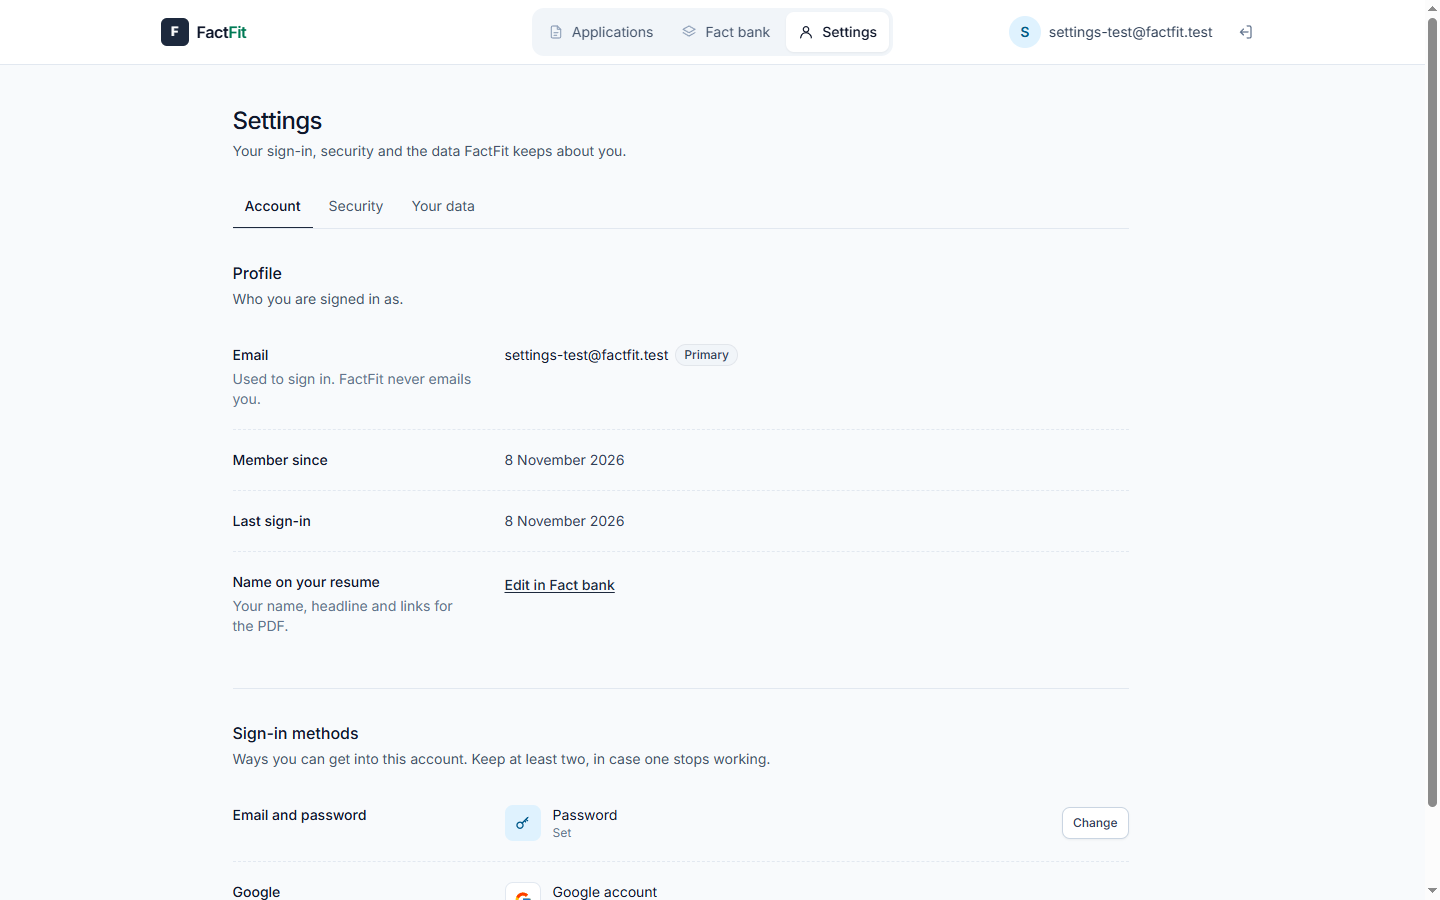
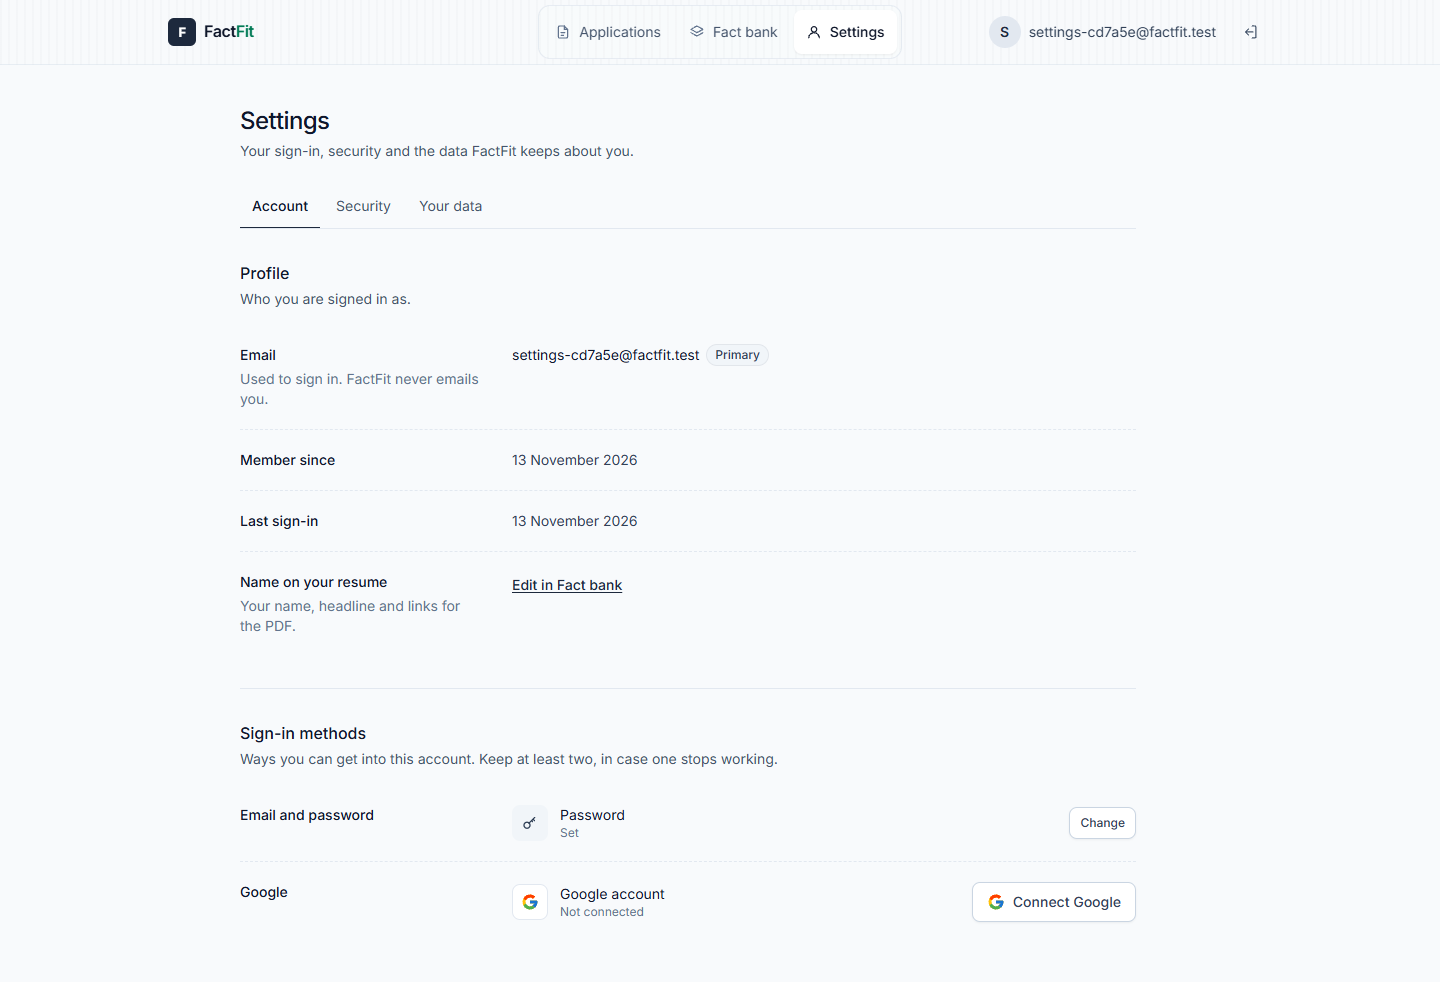
Add usage screenshots and bring the handoff up to date
- README: new guard-sandbox and pipeline shots showing the guard in use; settings
  shots retaken on the current UI from a throwaway local account.
- screenshots.mjs captures the sandbox and pipeline too.
- HANDOFF.md and the CLAUDE.md status line describe the 2026-11-13 polish and deploy.

diff --git a/HANDOFF.md b/HANDOFF.md
@@ -1,93 +1,102 @@
-# FactFit handoff (session 2026-11-07 → 2026-11-09)
+# FactFit handoff (updated 2026-11-13)
 
-Read this first, then `CLAUDE.md` (status line + rules) and `README.md`. Answer the user in **Thai**.
+Read this first, then `CLAUDE.md` (status line + rules) and `README.md`. Answer the user in **Thai**; keep code,
+commits and UI copy in English.
 
-## How to work in the new session
+## How to work in a new session
 
-- **Token budget:** turn on `caveman` (short replies) and `ponytail` (smallest complete change) at the start.
-  If a skill isn't listed, skip it. Keep chat short; put detail in files.
-- **Design skills:** run `ls ~/.claude/skills`, then use the design skills that fit the task. Includes the elaya
-  ai-design-skills set and the other design skills installed on 2026-11-09. Ones used or useful here:
-  `no-ai-design-slop` / `audit-ai-design-slop` (before), `better-interface` (after; it routes to `better-accessibility`,
-  `better-layout`, `better-writing`, `better-typography`, `better-colors`, `better-ui`), `break-ui` (worst-case data),
-  `animate` (motion), `form-design`, `landing-page-design`, `tastemaker`.
-  To save tokens, run a heavy review skill in a subagent and take back only the ranked findings.
+- **Token budget:** turn on `ponytail` (smallest complete change); `caveman` if the user wants short replies.
+  Keep chat short; put detail in files.
+- **Design work:** `CLAUDE_DESIGN_GUIDE.md` is the spec. Its honesty rules at the top win over everything else.
+  Useful skills: `no-ai-design-slop` / `audit-ai-design-slop`, `better-interface`, `break-ui`, `animate`.
+  Run heavy review skills in a subagent and keep only the ranked findings.
 - **Rules (from CLAUDE.md):** ask before every push or deploy. Never invent resume or portfolio facts.
   Deploy with `npx vercel@latest deploy --prod --yes`.
 
 ## Where things stand
 
-- **Live:** https://factfit-five.vercel.app. Repo github.com/Vector033/FactFit (private). `main` = `5c1fce3`, pushed and deployed.
-- **Google sign-in is live.** The user made OAuth client "FactFit" in Google Cloud project `vector033-projects`.
-  - Shared Supabase project `ddyjypurrrzasbtfwncs` has the Google provider on, manual linking on, and redirect URL
-    `https://factfit-five.vercel.app/**`.
-  - Vercel prod has `GOOGLE_AUTH_ENABLED=true`.
-  - The button reaches Google correctly. **Not yet confirmed:** that a real Google login completes; the user was going to test it.
+- **Live:** https://factfit-five.vercel.app. Repo github.com/Vector033/FactFit (private).
+  `main` is pushed, and the UI polish (`79a26f0`) was deployed to production on 2026-11-13.
+  Checked on prod: landing, /login, demo login and PDF export (200, `application/pdf`); no console errors; no
+  horizontal scroll at 375px.
+- **Google sign-in** is on in prod (`GOOGLE_AUTH_ENABLED=true` on Vercel). **Not yet confirmed:** that a real
+  Google login and "Connect Google" complete; the user tests that.
 - **Local:** Docker Desktop, local Supabase and the dev server are **stopped**.
-  - Start with: `docker desktop start`, then
-    `npx supabase start -x studio,storage-api,realtime,imgproxy,edge-runtime,logflare,vector,supavisor,postgres-meta`
-    in `FactFit/`, then preview `factfit-dev` (port 3000).
+  - Start with: `docker desktop start`, then in `FactFit/`
+    `npx supabase start -x studio,storage-api,realtime,imgproxy,edge-runtime,logflare,vector,supavisor,postgres-meta`,
+    then preview `factfit-dev` (port 3000). `factfit-google` is the same server with `GOOGLE_AUTH_ENABLED=true`
+    (both in `Desktop\.claude\launch.json`; run only one at a time).
   - Node is at `C:\Program Files\nodejs` (add it to PATH in Bash).
+  - Stop when done: `npx supabase stop`, then `docker desktop stop`.
 
-## What this session did (commits, oldest first)
+## Recent history (oldest first)
 
 | Commit | What |
 |---|---|
-| 04ff24f | Added `CLAUDE_DESIGN_GUIDE.md` (user's design notes) |
-| 709738a | First UI pass: guard demo on the landing page, score ring, confirm before deletes, undo for removed bullets, mobile fixes, README screenshots |
-| e641448 | FreeLLMAPI as a 2nd LLM provider + `--prompt loose` stress eval (numbers below) |
-| 103d22d | Slate + Inter redesign after brandlize-template.webflow.io; Settings tabs; Google sign-in; password show/hide |
-| 4799246 | Ignore `client_secret*.json` in `.gitignore` and `.vercelignore` |
-| 5c1fce3 | Sidebar replaced by a centred top bar (user asked: three items didn't need a column) |
+| 711f956 … 59385de | Gemini-led redesign: hero GPU shader, proof demo, pipeline and ATS diagrams, textures, design guide sections |
+| 481b499 | Landing claims replaced with measured eval numbers (bug-checked) |
+| bdb5e20 | UI polish against the guide (below) and demo verdicts tied to the real guard |
+| 79a26f0 | README screenshots refreshed |
+| (this commit) | Usage screenshots (guard sandbox, pipeline), new settings shots, this handoff |
 
-### Map of the new code
+### What the 2026-11-13 polish changed
 
-- **Design tokens** in `src/app/globals.css`.
-  - Classes: `.btn-primary` (slate-800), `.btn`, `.btn-light`, `.icon-tile` (sky), `.hero-band` (slate-700 + grid).
-  - Emerald means only "traceable / verified" and focus.
-  - Reveal and score-ring animations respect reduced motion.
-- **Landing page** `src/app/page.tsx`.
-  - Its demo is `src/components/proof-demo.tsx`: the real guard on a fictional fact.
-  - The eval numbers it shows come from `eval/README.md`. Change both together.
-- **App shell** `src/app/app/layout.tsx` + `nav.tsx` (top bar).
-  - The bullet toolbar in `bullet-studio.tsx` sticks at `md:top-16`.
-- **Login** `src/app/login/*`.
-  - Google button appears only when `GOOGLE_AUTH_ENABLED=true` (`src/lib/site.ts`).
-  - OAuth return route: `src/app/auth/callback/route.ts`, which uses `safeNext`.
-- **Settings** `src/app/app/settings/`: `page.tsx` = Account, `security/`, `data/`.
-  - `actions.ts`: password change re-checks the current password with a throwaway client; also sign out others,
-    revoke a session, link/unlink Google.
-  - UI pieces: `ui.tsx` (Section/Row), `forms.tsx`.
-- **Account data** `src/lib/account.ts`.
-  - `getAccount()` reads Supabase user + identities.
-  - `listSessions()` reads `auth.sessions` with raw SQL (`sql` from `src/db`). If the DB role can't read it, it returns null and the page falls back.
-- **Pure helpers** `src/lib/auth-utils.ts` (`safeNext`, `describeAgent`) and `src/lib/password.ts`, tested in `auth-utils.test.ts`.
-- **Supabase client** `src/lib/supabase/server.ts` forwards the browser's user-agent and IP, so the device list shows "Chrome on Windows", not "node".
-- **Demo account** (shared, fictional): settings are locked and its device list is hidden.
-- **LLM** `src/lib/llm/provider.ts`: `OpenAICompatibleProvider`, selected with `LLM_PROVIDER=freellmapi` + `FREELLMAPI_KEY`. Local only, never on Vercel.
-- **Screenshots:** `scripts/screenshots.mjs`, output in `docs/screenshots/`.
+- **Honest demo:** every sentence that shows the guard working lives in `src/lib/demo-drafts.ts`. The landing demo
+  (`proof-demo.tsx`), the pipeline (`verification-pipeline.tsx`) and the /login panel compute their verdicts with
+  `checkBullet`; `demo-drafts.test.ts` pins them. Add new demo sentences there, never as hand-written labels.
+- **Motion:** nothing loops forever. Scan sweep plays once, pipe flow 3 times, the score pulse twice.
+  `src/components/in-view.tsx` adds scroll entrances (fade up, ring draw, bars grow) **without ever hiding content**:
+  it only marks blocks that start below the fold, so no-JS, reduced motion and already-visible blocks stay still.
+  Hero shader pauses off-screen and under reduced motion (verified in Playwright).
+- **Removed slop:** uppercase eyebrows, fake system codes (`SYS.01`, `ERR_01`, `GUARD: PASS`), filler badges,
+  stacked hero grids/auras, nested cards in the steps, unmeasured claims ("100% Readable", citations in the PDF).
+- **Accessibility:** 44px touch targets on phones (CSS rule in `globals.css` for `.btn`, `.input`, `summary` …),
+  the comparison table stacks on mobile, all text ≥ 4.5:1 (measured), focus ring on every tab stop.
+- **Design guide:** every example now follows the honesty rules (no "0% hallucination", "AST", "100% verified",
+  invented competitor stats).
 
-### Eval results added (details in eval/README.md)
+## Map of the code
 
-- Typhoon 2.5 with the "make it impressive" (`loose`) prompt invented 26 claims. The guard blocked all 26.
-  It also blocked 10 honest paraphrases: derived %, "0.91" → "91%", abbreviations like VMs/SSR, inferred terms.
-- Flash-Lite with the loose prompt: 2 invented claims, both blocked.
-- gpt-oss / Qwen: no numbers, they hit free-tier rate limits.
+- **Design tokens** `src/app/globals.css`: `.btn-primary`, `.btn`, `.card`, `.eyebrow` (sentence case now),
+  `.paper-texture`, `.fluted-glass`, `.hero-band`; motion keyframes and the reduced-motion block at the end.
+  Emerald means only "traceable / verified" and focus.
+- **Landing** `src/app/page.tsx` with `proof-demo.tsx`, `steps.tsx`, `verification-pipeline.tsx`,
+  `benchmark-metrics.tsx`, `ats-anatomy.tsx`, `hero-shader.tsx`, `in-view.tsx`.
+  Numbers shown come from `eval/README.md`: change both together.
+- **App shell** `src/app/app/layout.tsx` + `nav.tsx`. Bullet toolbar in `bullet-studio.tsx` sticks at `md:top-16`.
+- **Login** `src/app/login/*`; Google button only when `GOOGLE_AUTH_ENABLED=true` (`src/lib/site.ts`);
+  OAuth return `src/app/auth/callback/route.ts` (uses `safeNext`).
+- **Settings** `src/app/app/settings/`: Account, `security/`, `data/`; actions in `actions.ts`; UI pieces `ui.tsx`,
+  `forms.tsx`. The demo account's settings are locked.
+- **Account data** `src/lib/account.ts`; `listSessions()` reads `auth.sessions` with raw SQL and falls back to null.
+- **LLM** `src/lib/llm/provider.ts`: Gemini, or `LLM_PROVIDER=freellmapi` (local only).
+
+## Screenshots
+
+`scripts/screenshots.mjs` exports `shoot(page, base, dir)`: landing, guard sandbox, pipeline, landing mobile, login,
+fact bank, application (+ mobile) and bullet studio, all with reduced motion so frames are still.
+Run it with the Playwright install in `Desktop\HarnKan\node_modules` (load it with `createRequire`), against the local
+dev server with the demo account seeded. Headless Chrome needs `--use-gl=angle --use-angle=swiftshader
+--enable-unsafe-swiftshader` for the hero shader to draw.
+The two settings shots are not in the script: sign up a throwaway local account (random credentials), capture
+`/app/settings` and `/app/settings/security` with `factfit-google` running, then delete the user with the local
+Supabase admin API (`npx supabase status -o env` gives the service key).
 
 ## Left to do (pick with the user)
 
-1. **Import resume (.docx/.pdf).** Extract facts, the user reviews and edits them. Still missing from the MVP.
-2. **Guard false blocks.** Accept derived percentages and an abbreviation list. Tune on the 30 tuning cases only; never on holdout.
+1. **Import resume (.docx/.pdf).** Extract facts; the user reviews and edits them. Still missing from the MVP.
+2. **Guard false blocks.** Accept derived percentages and an abbreviation list. Tune on the 30 tuning cases only;
+   never on holdout.
 3. Confirm a real Google login and "Connect Google" on prod (the user tests it).
-4. Confirm the prod DB role can read and delete `auth.sessions`. The prod check was blocked by the permission
-   classifier, so ask the user to run it or allow it. Until then the device list may be hidden on prod.
+4. Confirm the prod DB role can read and delete `auth.sessions` (ask the user to run or allow the check).
 5. Add FactFit to the résumé and the portfolio "Other projects" section, with real eval numbers only.
 
 ## Gotchas
 
-- Bash breaks on long `python - <<'EOF'` heredocs that contain backticks. Write the script to the scratchpad and run the file.
-- Playwright: leaving a page with unsaved bullets fires a `beforeunload` dialog. Add `page.on('dialog', d => d.accept())`.
+- The Write tool stores `\u00A0` as a real no-break character, and long `python - <<'EOF'` heredocs break in Bash.
+  Write edit scripts to the scratchpad and run the file; check `\uXXXX` escapes after writing.
+- Playwright: leaving a page with unsaved bullets fires a `beforeunload` dialog; add `page.on('dialog', d => d.accept())`.
+  A headed Playwright window may fail to launch from this agent; use headless with the swiftshader flags above.
 - Hydration warnings about `caret-color` come from Playwright screenshots, not from the app.
 - `client_secret_FactFit.json` sits in the FactFit folder. It is ignored by git and Vercel; tell the user to move it out.
 - Supabase prod is shared with HarnKan and SlipJot. Never change its Site URL. App data lives in schema `factfit`.
-- The user wants Docker stopped when not in use. Stop it at the end: `npx supabase stop` then `docker desktop stop`.

diff --git a/CLAUDE.md b/CLAUDE.md
@@ -1,6 +1,6 @@
 # FactFit: ปรับ resume ให้ตรงประกาศงาน โดยไม่แต่งข้อเท็จจริง
 
-> สถานะ (2026-11-09): **อ่าน `HANDOFF.md` ก่อน** · deploy แล้ว 5c1fce3: redesign slate/Inter + แถบเมนูบน, Settings (Account/Security/Your data), Google login เปิดใช้บน prod แล้ว · ก่อนหน้า (2026-11-07 รอบ 2): deploy แล้วที่ https://factfit-five.vercel.app · UI redesign ตาม CLAUDE_DESIGN_GUIDE.md (landing มี guard demo จริง, score ring, confirm ลบ) + ภาพหน้าจอใน README (`scripts/screenshots.mjs`) · provider ตัวที่สอง FreeLLMAPI (`LLM_PROVIDER=freellmapi`, local เท่านั้น) + stress test `--prompt loose` ผลใน eval/README.md · ยังไม่มี import resume · guard ยังบล็อกผิดกับ % ที่คำนวณได้และตัวย่อ
+> สถานะ (2026-11-13): **อ่าน `HANDOFF.md` ก่อน** · deploy แล้ว 79a26f0 ที่ https://factfit-five.vercel.app: polish UI ตาม CLAUDE_DESIGN_GUIDE.md (ตัด slop, animation เล่นจบแล้วหยุด + scroll entrance ที่ไม่ซ่อนเนื้อหา, touch target 44px, ข้อความทุกตัวเลขตรง eval/README.md) · ประโยค demo ทั้งหมดอยู่ใน `src/lib/demo-drafts.ts` และ verdict มาจาก guard จริง (มี test) · ภาพหน้าจอ README ใหม่ครบ รวม guard sandbox กับ pipeline · ก่อนหน้า: Settings (Account/Security/Your data), Google login บน prod, provider ที่สอง FreeLLMAPI (local เท่านั้น) · ยังไม่มี import resume · guard ยังบล็อกผิดกับ % ที่คำนวณได้และตัวย่อ
 >
 > Production: Supabase project เดียวกับ HarnKan/SlipJot (ref ddyjypurrrzasbtfwncs) แยก schema `factfit` · ค่า production อยู่ใน `.env.vercel-production` (gitignored) · runtime ใช้ transaction pooler :6543 + DB_POOL_MAX=8 (ห้ามใช้ session pooler เพราะจำกัด 15 client ทั้ง project) · migrate ใช้ MIGRATE_DATABASE_URL (:5432) · deploy ด้วย `npx vercel@latest deploy --prod --yes` (GitHub ต่อกับ Vercel ไม่ได้เพราะ repo private)
 > Stack: Next.js 16 + Supabase (Auth + Postgres, dev ใช้ `npx supabase start` ใน Docker) + Drizzle + Gemini (Flash-Lite ก่อน) · Node 26 อยู่ที่ `C:\Program Files\nodejs`

diff --git a/README.md b/README.md
@@ -14,6 +14,8 @@ fact bank, no sign-up needed.
 | ![FactFit landing page](docs/screenshots/landing.png) | ![Bullet studio with a blocked bullet](docs/screenshots/bullet-studio.png) |
 | **Job mapping and fit score** | **Fact bank** |
 | ![Application page with fit score](docs/screenshots/application.png) | ![Fact bank page](docs/screenshots/fact-bank.png) |
+| **Try the guard: type a draft, see what it blocks** | **The guard, step by step, on an invented draft** |
+| ![Guard sandbox on the landing page](docs/screenshots/guard-sandbox.png) | ![Pipeline diagram blocking an invented draft](docs/screenshots/pipeline.png) |
 | **Settings: security checklist, password with show/hide, signed-in devices** | **Settings: sign-in methods (email + Google)** |
 | ![Security settings](docs/screenshots/settings-security.png) | ![Account settings](docs/screenshots/settings-account.png) |
 
@@ -22,7 +24,9 @@ fact bank, no sign-up needed.
   <img src="docs/screenshots/application-mobile.png" alt="Application page on a phone" width="240">
 </p>
 
-Screenshots use the fictional demo account and are regenerated with `scripts/screenshots.mjs`.
+Screenshots use the fictional demo account and are regenerated with `scripts/screenshots.mjs` (still frames, reduced
+motion). The demo account's settings are locked, so the two settings shots come from a throwaway local test account
+that is deleted afterwards.
 
 ## How it works
 
